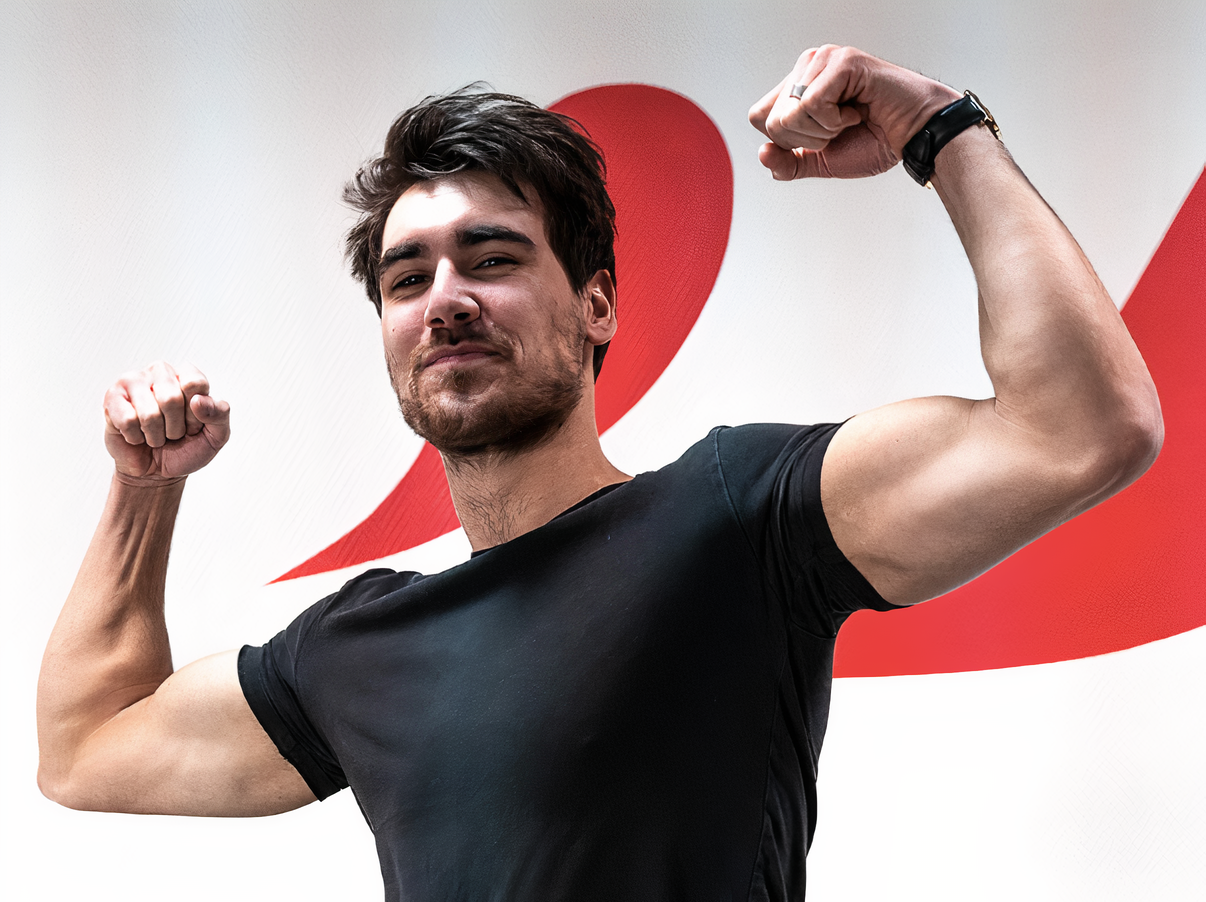
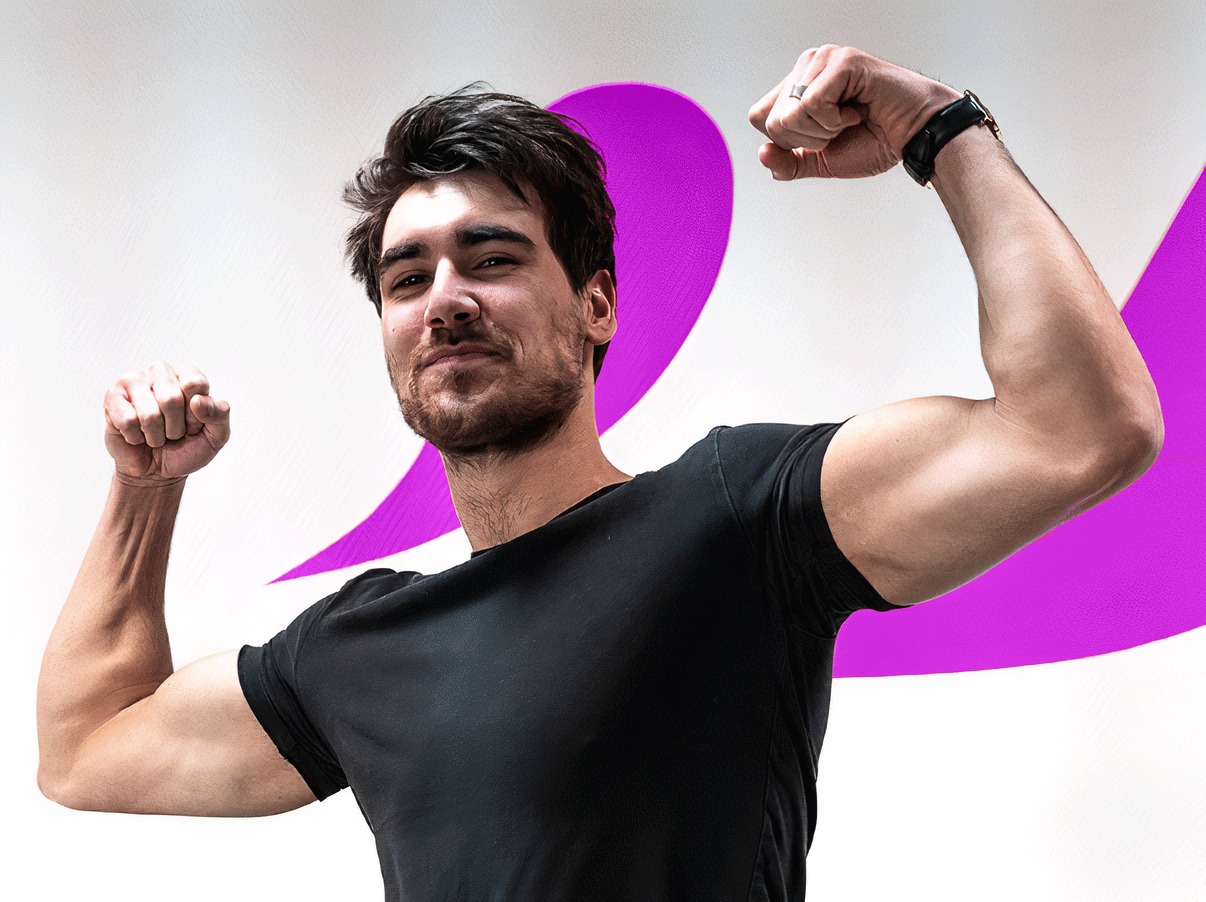
fix links color

Changed region(s): [[0.675, 0.1863, 1.0, 0.7761], [0.4602, 0.0931, 0.6136, 0.4967], [0.2148, 0.4967, 0.3988, 0.6519]]

diff --git a/src/components/layout/layoutStyles.js b/src/components/layout/layoutStyles.js
@@ -1,5 +1,6 @@
 import { createGlobalStyle } from "styled-components"
 import breakpoints from "styles/breakpoints"
+import colors from "styles/colors"
 
 export const GlobalStyle = createGlobalStyle`
   * {
@@ -36,7 +37,9 @@ export const GlobalStyle = createGlobalStyle`
   a {
     text-decoration: none;
     transition: all .4s;
+    color: ${colors.violet};
     &:hover {
+      color: ${colors.darkViolet};
       transition: all .4s;
     }
   }

diff --git a/src/styles/colors.js b/src/styles/colors.js
@@ -3,7 +3,9 @@ const colors = {
     'white': '#fff',
     'black': '#000',
     'lightgrey': '#a5a5a5',
-    'extremelightgrey': '#f1f1f1'
+    'extremelightgrey': '#f1f1f1',
+    'violet': '#c11ecf',
+    'darkViolet': '#7a1283'
 }
 
 export default colors
